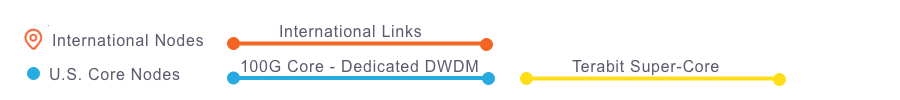
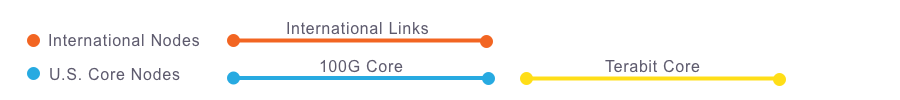
#14: updated fab phase map and legend

Changed region(s): [[0.0, 0.21, 0.56, 0.51], [0.2489, 0.6, 0.5289, 0.72], [0.6222, 0.6, 0.8089, 0.72]]

diff --git a/src/components/modules/map-phase-3.js b/src/components/modules/map-phase-3.js
@@ -15,10 +15,10 @@ const geoUrl = "https://raw.githubusercontent.com/zcreativelabs/react-simple-map
 const coordinates = {
   "New York": [-74.005974, 40.712776],
   "Seattle": [-122.3321, 47.6062],
-  "Tokyo": [-139.6503, 35.6762],
-  "Bristol": [-2.5879, 51.4545],
-  "Amsterdam": [4.9041, 52.3676],
-  "Geneva": [6.1432, 46.2044],
+  "University of Tokyo": [-139.6503, 35.6762],
+  "University of Bristol": [-2.5879, 51.4545],
+  "University of Amsterdam": [4.9041, 52.3676],
+  "CERN": [6.1432, 46.2044],
   "Dallas": [-96.7970, 32.7767],
   "Salt Lake City": [-111.891045, 40.760780],
   "Kansas City": [-94.5786, 39.0997],
@@ -41,15 +41,15 @@ const coordinates = {
 }
 
 const international_nodes = [
-  { markerOffset: -25, name: "New York" },
-  { markerOffset: -25, name: "Seattle" },
-  { markerOffset: -25, name: "Tokyo" },
-  { markerOffset: 10, name: "Bristol" },
-  { markerOffset: -25, name: "Amsterdam" },
-  { markerOffset: 15, name: "Geneva" },
+  { markerOffset: -8, name: "University of Tokyo" },
+  { markerOffset: 12, name: "University of Bristol" },
+  { markerOffset: -8, name: "University of Amsterdam" },
+  { markerOffset: 12, name: "CERN" },
 ];
 
 const usa_core_nodes = [
+  { markerOffset: -8, name: "New York" },
+  { markerOffset: -8, name: "Seattle" },
   { markerOffset: -8, name: "Salt Lake City" },
   { markerOffset: -8, name: "Kansas City" },
   { markerOffset: 12, name: "Atlanta" },
@@ -60,10 +60,10 @@ const usa_core_nodes = [
 ]
 
 const international_lines = [
-  { from: "Seattle", to: "Tokyo" },
-  { from: "New York", to: "Bristol" },
-  { from: "New York", to: "Amsterdam" },
-  { from: "New York", to: "Geneva" },
+  { from: "Seattle", to: "University of Tokyo" },
+  { from: "New York", to: "University of Bristol" },
+  { from: "New York", to: "University of Amsterdam" },
+  { from: "New York", to: "CERN" },
 ]
 
 const usa_lines = [
@@ -97,8 +97,8 @@ export const MapPhase3 = props => {
       width="800"
       height="450"
       projectionConfig={{
-        scale: 350,
-        center: [ -60, 30],
+        scale: 300,
+        center: [ -65, 30],
       }}
     >
     <ZoomableGroup zoom={1}>
@@ -119,7 +119,7 @@ export const MapPhase3 = props => {
         from={coordinates[from]}
         to={coordinates[to]}
         stroke="#FF5533"
-        strokeWidth={2}
+        strokeWidth={1}
         strokeLinecap="round"
       />
     ))}
@@ -146,27 +146,16 @@ export const MapPhase3 = props => {
         />
     ))}
     
-
     {international_nodes.map(({ name, markerOffset }) => (
       <Marker key={name} coordinates={coordinates[name]}>
-         <g
-            fill="none"
-            stroke="#FF5533"
-            strokeWidth="2"
-            strokeLinecap="round"
-            strokeLinejoin="round"
-            transform="translate(-12, -24)"
-          >
-            <circle cx="12" cy="10" r="3" />
-            <path d="M12 21.7C17.3 17 20 13 20 10a8 8 0 1 0-16 0c0 3 2.7 6.9 8 11.7z" />
-          </g>
-          <text
-            textAnchor="middle"
-            y={markerOffset}
-            style={{ fontFamily: "system-ui", fill: "#5D5A6D" }}
-          >
-            {name}
-          </text>
+        <circle r={3} fill="#f26522" />
+        <text
+          textAnchor="middle"
+          y={markerOffset}
+          style={{ fontFamily: "system-ui", fill: "#5D5A6D", fontSize: ".7rem", fontWeight: "600" }}
+        >
+          {name}
+        </text>
       </Marker>
     ))}
 

diff --git a/src/components/modules/map.js b/src/components/modules/map.js
@@ -30,7 +30,7 @@ const coordinates = {
   "Atlanta": [-84.3880, 33.7490],
   "Seattle": [-122.3321, 47.6062],
   "San Diego": [-117.1611, 32.7157],
-  "Houston": [-95.3698, 29.7604],
+  // "Dallas": [-95.3698, 29.7604],
   "LEARN": [-95.3698, 29.7604],
   "STARLIGHT": [-87.6173, 41.8962],
   "Washington": [-77.0369, 38.9072],
@@ -64,7 +64,7 @@ const core_nodes = {
     { markerOffset: 25, name: "Atlanta" },
     { markerOffset: -20, name: "Seattle" },
     { markerOffset: 25, name: "San Diego" },
-    { markerOffset: 20, name: "Houston" },
+    { markerOffset: 20, name: "Dallas" },
     { markerOffset: -20, name: "Chicago" },
     { markerOffset: 25, name: "Washington" },
   ],
@@ -79,7 +79,7 @@ const core_nodes = {
     { markerOffset: -20, name: "Kansas City" },
     { markerOffset: 25, name: "Atlanta" },
     { markerOffset: 25, name: "San Diego" },
-    { markerOffset: 20, name: "Houston" },
+    { markerOffset: 20, name: "Dallas" },
     { markerOffset: -20, name: "Chicago" },
     { markerOffset: 25, name: "Washington" },
   ],
@@ -93,7 +93,7 @@ const edge_nodes = {
     { markerOffset: -25, name:"MAX" },
   ],
   "phase2": [
-    { markerOffset: -25, name: "TACC" },
+    { markerOffset: 5, name: "TACC" },
     { markerOffset: 5, name: "NCSA" },
     { markerOffset: -25, name:"MGHPCC" },
     { markerOffset: -25, name:"LBNL" },
@@ -112,11 +112,11 @@ const lines = {
     { from: "Seattle", to: "Salt Lake City" },
     { from: "Seattle", to: "San Diego" },
     { from: "San Diego", to: "Salt Lake City" },
-    { from: "San Diego", to: "Houston" },
+    { from: "San Diego", to: "Dallas" },
     { from: "Salt Lake City" , to: "Kansas City" },
-    { from: "Houston", to: "Atlanta" },
+    { from: "Dallas", to: "Atlanta" },
     { from: "Kansas City", to: "Chicago" },
-    { from: "Kansas City", to: "Houston" },
+    { from: "Kansas City", to: "Dallas" },
     { from: "Chicago", to: "Atlanta" },
     { from: "Chicago", to: "Washington" },
     { from: "Chicago", to: "New York" },
@@ -131,11 +131,11 @@ const lines = {
     { from: "Seattle", to: "Salt Lake City" },
     { from: "Seattle", to: "San Diego" },
     { from: "San Diego", to: "Salt Lake City" },
-    { from: "San Diego", to: "Houston" },
+    { from: "San Diego", to: "Dallas" },
     { from: "Salt Lake City" , to: "Kansas City" },
-    { from: "Houston", to: "Atlanta" },
+    { from: "Dallas", to: "Atlanta" },
     { from: "Kansas City", to: "Chicago" },
-    { from: "Kansas City", to: "Houston" },
+    { from: "Kansas City", to: "Dallas" },
     { from: "Chicago", to: "Atlanta" },
     { from: "Chicago", to: "Washington" },
     { from: "Chicago", to: "New York" },
@@ -148,8 +148,8 @@ const lines_super = {
   "phase1": [],
   "phase2": [
     { from: "Chicago", to:  "Washington" },
-    { from: "Houston", to: "Chicago" },
-    { from: "San Diego", to: "Houston" },
+    { from: "Dallas", to: "Chicago" },
+    { from: "San Diego", to: "Dallas" },
   ],
   "fab": [],
 }
@@ -239,9 +239,9 @@ const annotations = {
       ]
     },
     {
-      city: "Houston",
+      city: "Dallas",
       dx: 35,
-      dy: -5,
+      dy: 10,
       textAnchor: "start",
       content: [
         "LEARN",
